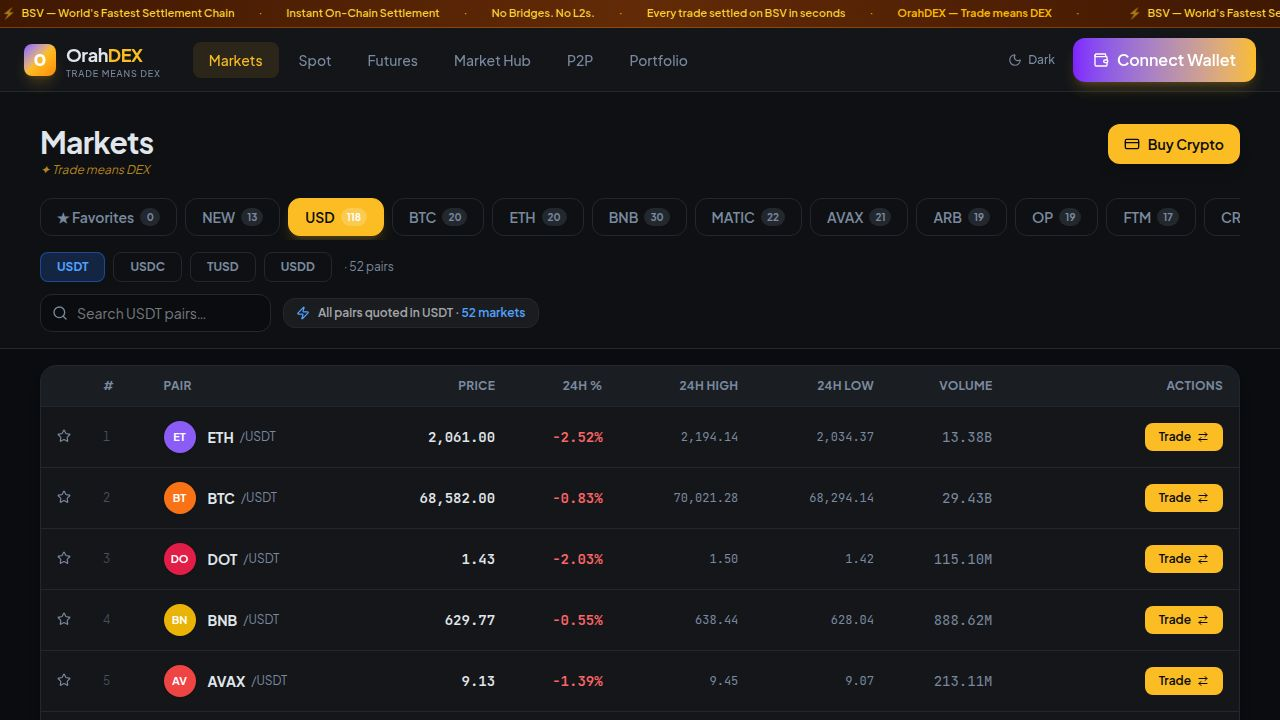
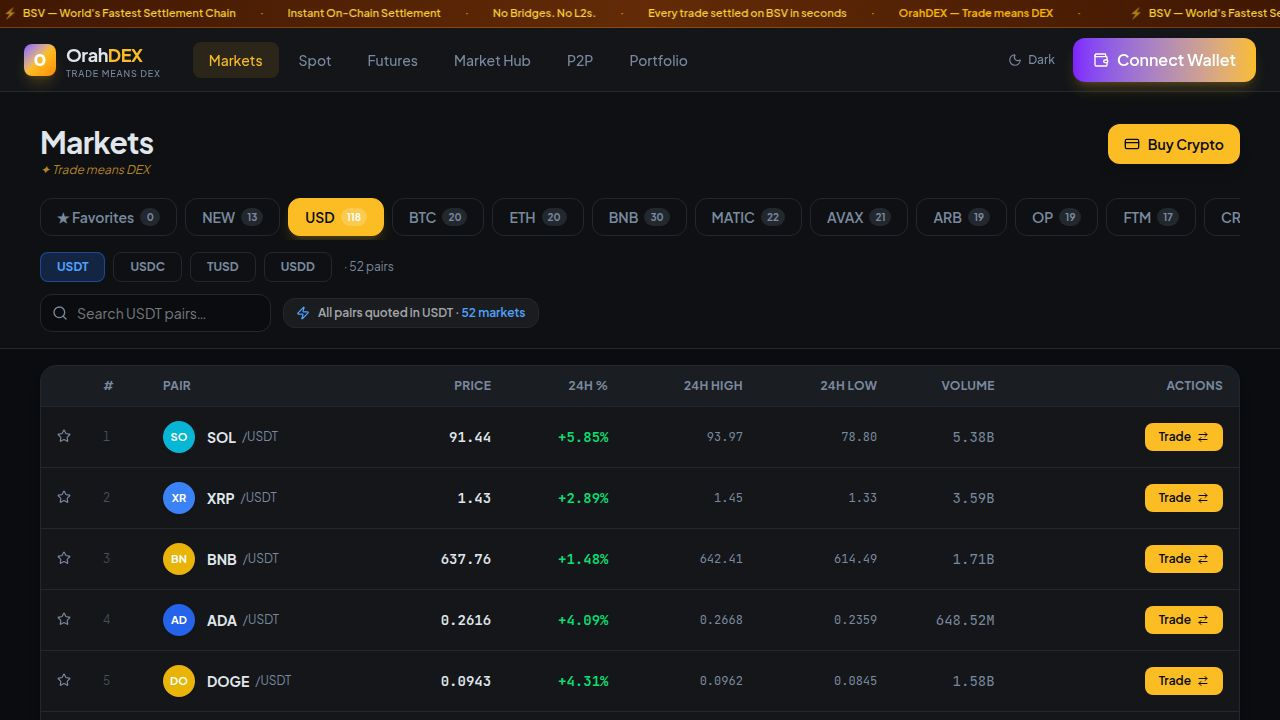
Add fallback data fetching from CoinMarketCap when CoinGecko fails
Integrates CoinMarketCap API as a fallback for price updates, coin listings, and exchange data when CoinGecko fails, ensuring data availability.

Replit-Commit-Author: Agent
Replit-Commit-Session-Id: 1612e45f-bfa7-465a-9d3d-dd63954a7bc0
Replit-Commit-Checkpoint-Type: full_checkpoint
Replit-Commit-Event-Id: b303520f-3cff-423b-a257-918bcbca4e71
Replit-Commit-Screenshot-Url: https://storage.googleapis.com/screenshot-production-us-central1/748c5e24-ef08-447f-a71b-5e9894ce4896/1612e45f-bfa7-465a-9d3d-dd63954a7bc0/6DPr9Qg
Replit-Helium-Checkpoint-Created: true

diff --git a/artifacts/api-server/src/lib/cmcFallback.ts b/artifacts/api-server/src/lib/cmcFallback.ts
@@ -1,0 +1,177 @@
+/**
+ * CoinMarketCap fallback helpers
+ *
+ * Used when CoinGecko is rate-limited (429) or unavailable.
+ * All functions return null when the CMC_API_KEY env var is missing.
+ */
+
+const CMC_KEY = process.env["CMC_API_KEY"];
+const CMC_BASE = "https://pro-api.coinmarketcap.com/v1";
+
+function cmcHeaders() {
+  return {
+    "X-CMC_PRO_API_KEY": CMC_KEY ?? "",
+    Accept: "application/json",
+  };
+}
+
+// ─────────────────────────────────────────────────────────────────────────────
+// Spot prices  (replaces CoinGecko /simple/price)
+// Returns a map of SYMBOL → { usd, usd_24h_change, usd_24h_vol, usd_market_cap }
+// ─────────────────────────────────────────────────────────────────────────────
+export async function cmcFetchPrices(symbols: string[]): Promise<Record<string, {
+  usd: number;
+  usd_24h_change: number;
+  usd_24h_vol: number;
+  usd_market_cap: number;
+}> | null> {
+  if (!CMC_KEY) return null;
+  try {
+    const url = `${CMC_BASE}/cryptocurrency/quotes/latest?symbol=${symbols.join(",")}&convert=USD`;
+    const res = await fetch(url, { headers: cmcHeaders(), signal: AbortSignal.timeout(12000) });
+    if (!res.ok) return null;
+    const json = await res.json();
+    const out: Record<string, any> = {};
+    for (const [sym, data] of Object.entries(json.data as Record<string, any>)) {
+      const q = data?.quote?.USD ?? {};
+      out[sym.toUpperCase()] = {
+        usd:             q.price             ?? 0,
+        usd_24h_change:  q.percent_change_24h ?? 0,
+        usd_24h_vol:     q.volume_24h         ?? 0,
+        usd_market_cap:  q.market_cap         ?? 0,
+      };
+    }
+    return out;
+  } catch {
+    return null;
+  }
+}
+
+// ─────────────────────────────────────────────────────────────────────────────
+// Top coins market list  (replaces CoinGecko /coins/markets)
+// Returns array of normalised coin objects, up to `limit` coins.
+// ─────────────────────────────────────────────────────────────────────────────
+export async function cmcFetchMarkets(limit = 250): Promise<any[] | null> {
+  if (!CMC_KEY) return null;
+  try {
+    const pages = Math.ceil(limit / 200);
+    const all: any[] = [];
+    for (let start = 1; start <= pages * 200; start += 200) {
+      const url = `${CMC_BASE}/cryptocurrency/listings/latest?start=${start}&limit=200&convert=USD&sort=market_cap`;
+      const res = await fetch(url, { headers: cmcHeaders(), signal: AbortSignal.timeout(12000) });
+      if (!res.ok) break;
+      const json = await res.json();
+      const batch: any[] = json.data ?? [];
+      all.push(...batch);
+      if (batch.length < 200) break;
+      if (all.length >= limit) break;
+    }
+    if (!all.length) return null;
+    return all.slice(0, limit).map((c: any, i: number) => {
+      const q = c.quote?.USD ?? {};
+      return {
+        id:            `cmc-${c.id}`,
+        rank:          c.cmc_rank ?? (i + 1),
+        name:          c.name,
+        symbol:        (c.symbol ?? "").toUpperCase(),
+        image:         `https://s2.coinmarketcap.com/static/img/coins/64x64/${c.id}.png`,
+        price:         q.price             ?? 0,
+        marketCap:     q.market_cap         ?? 0,
+        volume24h:     q.volume_24h         ?? 0,
+        change24h:     q.percent_change_24h ?? 0,
+        high24h:       0,
+        low24h:        0,
+        circulatingSupply: c.circulating_supply ?? 0,
+      };
+    });
+  } catch {
+    return null;
+  }
+}
+
+// ─────────────────────────────────────────────────────────────────────────────
+// Exchange listings  (replaces CoinGecko /exchanges)
+// Returns { exchanges, totalVolumeUsd } or null
+// ─────────────────────────────────────────────────────────────────────────────
+export async function cmcFetchExchanges(limit = 100): Promise<{
+  exchanges: any[];
+  totalVolumeUsd: number;
+} | null> {
+  if (!CMC_KEY) return null;
+  try {
+    const url = `${CMC_BASE}/exchange/listings/latest?limit=${limit}&convert=USD&sort=volume_24h`;
+    const res = await fetch(url, { headers: cmcHeaders(), signal: AbortSignal.timeout(15000) });
+    if (!res.ok) return null;
+    const json = await res.json();
+    const raw: any[] = json.data ?? [];
+    let totalVolumeUsd = 0;
+    const DEX_TYPES = new Set(["dex", "defi"]);
+    const exchanges = raw.map((e: any, idx: number) => {
+      const vol = e.quote?.USD?.volume_24h ?? 0;
+      totalVolumeUsd += vol;
+      const isDex = DEX_TYPES.has((e.type ?? "").toLowerCase());
+      return {
+        id:               String(e.id),
+        name:             e.name,
+        url:              e.urls?.website?.[0] ?? null,
+        image:            e.logo ?? null,
+        country:          e.country ?? null,
+        yearEstablished:  e.date_launched ? new Date(e.date_launched).getFullYear() : null,
+        type:             isDex ? "dex" : "cex",
+        chain:            null,
+        rank:             e.market_cap_by_total_assets_rank ?? (idx + 1),
+        trustScore:       Math.round((e.quote?.USD?.effective_liquidity_24h ?? 5) / 10),
+        tradeVolume24hBtc: 0,
+        tradeVolume24hUsd: vol,
+        marketCap:        e.quote?.USD?.market_cap_by_total_assets ?? 0,
+        source:           "cmc",
+      };
+    });
+    return { exchanges, totalVolumeUsd };
+  } catch {
+    return null;
+  }
+}
+
+// ─────────────────────────────────────────────────────────────────────────────
+// Coin tickers / exchange listings for a single coin  (replaces CoinGecko /coins/:id/tickers)
+// Returns normalised tickers array or null
+// ─────────────────────────────────────────────────────────────────────────────
+export async function cmcFetchTickers(symbol: string): Promise<any[] | null> {
+  if (!CMC_KEY) return null;
+  try {
+    // Step 1: resolve symbol → CMC id
+    const mapUrl = `${CMC_BASE}/cryptocurrency/map?symbol=${encodeURIComponent(symbol)}&limit=1`;
+    const mapRes = await fetch(mapUrl, { headers: cmcHeaders(), signal: AbortSignal.timeout(10000) });
+    if (!mapRes.ok) return null;
+    const mapJson = await mapRes.json();
+    const cmcId: number | undefined = mapJson.data?.[0]?.id;
+    if (!cmcId) return null;
+
+    // Step 2: get market pairs for that coin
+    const pairsUrl = `${CMC_BASE}/exchange/market-pairs/latest?id=${cmcId}&limit=100&convert=USD`;
+    const pairsRes = await fetch(pairsUrl, { headers: cmcHeaders(), signal: AbortSignal.timeout(10000) });
+    if (!pairsRes.ok) return null;
+    const pairsJson = await pairsRes.json();
+    const pairs: any[] = pairsJson.data?.market_pairs ?? [];
+
+    return pairs.map((p: any) => ({
+      exchangeId:    String(p.exchange?.id ?? ""),
+      exchangeName:  p.exchange?.name ?? "",
+      exchangeLogo:  p.exchange?.logo ?? null,
+      base:          p.market_pair_base?.currency_symbol ?? symbol,
+      target:        p.market_pair_quote?.currency_symbol ?? "USDT",
+      price:         p.quote?.USD?.price ?? 0,
+      volume:        p.quote?.USD?.volume_24h ?? 0,
+      spread:        null,
+      trustScore:    null,
+      tradeUrl:      null,
+      convertedLast: p.quote?.USD?.price ?? 0,
+      convertedVol:  p.quote?.USD?.volume_24h ?? 0,
+      isAnomaly:     false,
+      isStale:       false,
+    }));
+  } catch {
+    return null;
+  }
+}

diff --git a/artifacts/api-server/src/routes/dex.ts b/artifacts/api-server/src/routes/dex.ts
@@ -1,4 +1,5 @@
 import { Router, type IRouter } from "express";
+import { cmcFetchMarkets, cmcFetchExchanges, cmcFetchTickers } from "../lib/cmcFallback.js";
 
 const router: IRouter = Router();
 
@@ -257,7 +258,35 @@ router.get("/dex/exchanges", async (req, res) => {
     cache = { data: result, ts: Date.now() };
     res.json(result);
   } catch (err: any) {
-    req.log.error({ err }, "Failed to fetch exchanges");
+    req.log.warn({ err }, "CoinGecko exchanges failed — trying CoinMarketCap fallback");
+
+    // Try CMC fallback before giving up
+    try {
+      const cmcResult = await cmcFetchExchanges(100);
+      if (cmcResult) {
+        const orahVolBtc = 120;
+        const btcFallback = 65000;
+        cmcResult.exchanges.unshift({
+          id: "orahdex", name: "OrahDEX", url: "https://orahdex.org", image: null,
+          country: null, yearEstablished: 2026, type: "dex", chain: "BSV", rank: 1,
+          trustScore: 9, tradeVolume24hBtc: orahVolBtc,
+          tradeVolume24hUsd: orahVolBtc * btcFallback, marketCap: 28000000,
+        });
+        const fallbackResult = {
+          btcPrice: btcFallback, totalVolumeBtc: 0,
+          totalVolumeUsd: cmcResult.totalVolumeUsd,
+          defiMarketCap: 0, cefiMarketCap: 0, totalMarketCap: 0,
+          exchangeCount: cmcResult.exchanges.length,
+          dexCount: cmcResult.exchanges.filter((e: any) => e.type === "dex").length,
+          cexCount: cmcResult.exchanges.filter((e: any) => e.type === "cex").length,
+          exchanges: cmcResult.exchanges,
+          source: "coinmarketcap",
+        };
+        cache = { data: fallbackResult, ts: Date.now() };
+        return res.json(fallbackResult);
+      }
+    } catch (_cmcErr) {}
+
     if (cache) return res.json(cache.data);
     res.status(502).json({ error: "Failed to fetch exchange data" });
   }
@@ -297,7 +326,14 @@ router.get("/coins/markets", async (req, res) => {
 
     if (!allCoins.length) {
       if (coinsCache) return res.json(coinsCache.data.slice(0, perPage));
-      throw new Error("No coin data returned from CoinGecko");
+      // Try CoinMarketCap fallback
+      const cmcCoins = await cmcFetchMarkets(1000);
+      if (cmcCoins && cmcCoins.length) {
+        coinsCache = { data: cmcCoins, ts: Date.now() };
+        const start2 = (page - 1) * perPage;
+        return res.json(cmcCoins.slice(start2, start2 + perPage));
+      }
+      throw new Error("No coin data returned from CoinGecko or CoinMarketCap");
     }
 
     // Normalise shape
@@ -370,7 +406,17 @@ router.get("/coins/:id/tickers", async (req, res) => {
     tickerCache.set(id, { data: result, ts: Date.now() });
     return res.json(result);
   } catch (err: any) {
-    req.log.error({ err }, `Failed to fetch tickers for ${id}`);
+    req.log.warn({ err }, `CoinGecko tickers failed for ${id} — trying CoinMarketCap fallback`);
+    // Try CMC fallback using the ticker symbol (id might be cg-id; try symbol lookup)
+    try {
+      const symbol = id.replace(/^cmc-\d+$/, "").toUpperCase();
+      const cmcTickers = await cmcFetchTickers(symbol || id.toUpperCase());
+      if (cmcTickers && cmcTickers.length) {
+        const result = { coinId: id, name: id, tickers: cmcTickers, source: "coinmarketcap" };
+        tickerCache.set(id, { data: result, ts: Date.now() });
+        return res.json(result);
+      }
+    } catch (_cmcErr) {}
     const cached = tickerCache.get(id);
     if (cached) return res.json(cached.data);
     return res.status(502).json({ error: "Failed to fetch ticker data" });

diff --git a/artifacts/api-server/src/lib/priceUpdater.ts b/artifacts/api-server/src/lib/priceUpdater.ts
@@ -2,6 +2,7 @@ import { db } from "@workspace/db";
 import { marketsTable } from "@workspace/db/schema";
 import { eq, inArray } from "drizzle-orm";
 import { logger } from "./logger.js";
+import { cmcFetchPrices } from "./cmcFallback.js";
 
 export const STABLECOIN_QUOTES = new Set(["USDT", "USDC", "TUSD", "USDD", "BUSD"]);
 
@@ -175,6 +176,26 @@ async function fetchLivePrices(): Promise<Record<string, CoinGeckoPrice>> {
   });
   if (!res.ok) throw new Error(`CoinGecko HTTP ${res.status}`);
   return res.json() as Promise<Record<string, CoinGeckoPrice>>;
+}
+
+/**
+ * Fetch prices from CoinMarketCap and remap to the same shape as CoinGecko.
+ * COINGECKO_IDS keys are ticker symbols (BTC, ETH, …) so we pass symbols directly.
+ */
+async function fetchLivePricesCMC(): Promise<Record<string, CoinGeckoPrice> | null> {
+  const symbols = Object.keys(COINGECKO_IDS); // BTC, ETH, SOL, …
+  const cmcMap = await cmcFetchPrices(symbols);
+  if (!cmcMap) return null;
+
+  // Remap: COINGECKO_IDS maps SYMBOL → cgId; we need cgId → CoinGeckoPrice
+  // for the updateMarketPrices fn which looks up by cgId.
+  // Build a reverse symbol→cgId map.
+  const out: Record<string, CoinGeckoPrice> = {};
+  for (const [sym, cgId] of Object.entries(COINGECKO_IDS)) {
+    const d = cmcMap[sym.toUpperCase()];
+    if (d) out[cgId] = d;
+  }
+  return out;
 }
 
 // Default fallback prices (approximate) when CoinGecko is down
@@ -356,7 +377,17 @@ export async function seedMarketsIfNeeded() {
 
 export async function updateMarketPrices() {
   try {
-    const prices = await fetchLivePrices();
+    let prices: Record<string, CoinGeckoPrice>;
+    try {
+      prices = await fetchLivePrices();
+      logger.info("Market prices updated from CoinGecko");
+    } catch (cgErr: any) {
+      logger.warn({ err: cgErr }, "CoinGecko price fetch failed — trying CoinMarketCap fallback");
+      const cmcPrices = await fetchLivePricesCMC();
+      if (!cmcPrices) throw new Error("Both CoinGecko and CoinMarketCap price fetches failed");
+      prices = cmcPrices;
+      logger.info("Market prices updated from CoinMarketCap (fallback)");
+    }
     const markets = await db.select().from(marketsTable);
 
     for (const market of markets) {
@@ -446,9 +477,8 @@ export async function updateMarketPrices() {
       }).where(eq(marketsTable.symbol, market.symbol));
     }
 
-    logger.info("Market prices updated from CoinGecko");
   } catch (err) {
-    logger.warn({ err }, "Failed to update prices from CoinGecko");
+    logger.warn({ err }, "Failed to update prices from CoinGecko and CoinMarketCap");
   }
 }
 